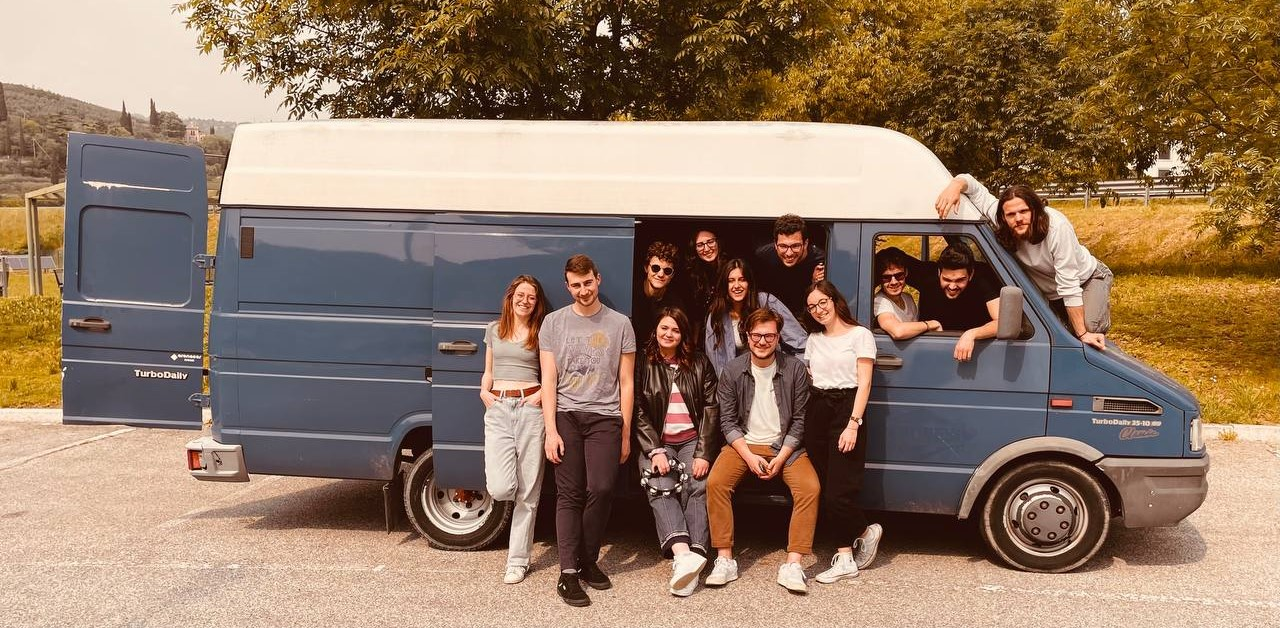
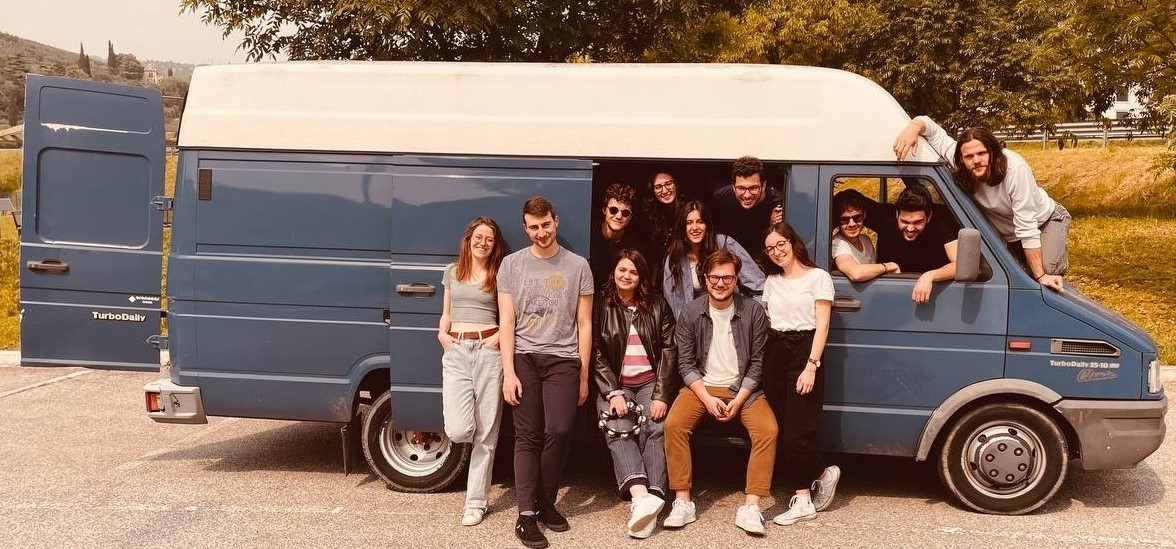
refinements

diff --git a/style.css b/style.css
@@ -392,7 +392,7 @@ footer {
     width: 100%;
     height: 100%;
     object-fit: cover;
-    object-position: center 39%;;  /*   better crop for desktop */
+    object-position: center 46%;  /*   better crop for desktop */
     display: block;
 }
 
@@ -558,7 +558,7 @@ footer {
 }
 
 .cta-link img {
-    max-width:30%;          /* image will not exceed container width */
+    max-width:35%;          /* image will not exceed container width */
     height: auto;            /* keep aspect ratio */
     display: block;          /* remove small bottom spacing */
 }
